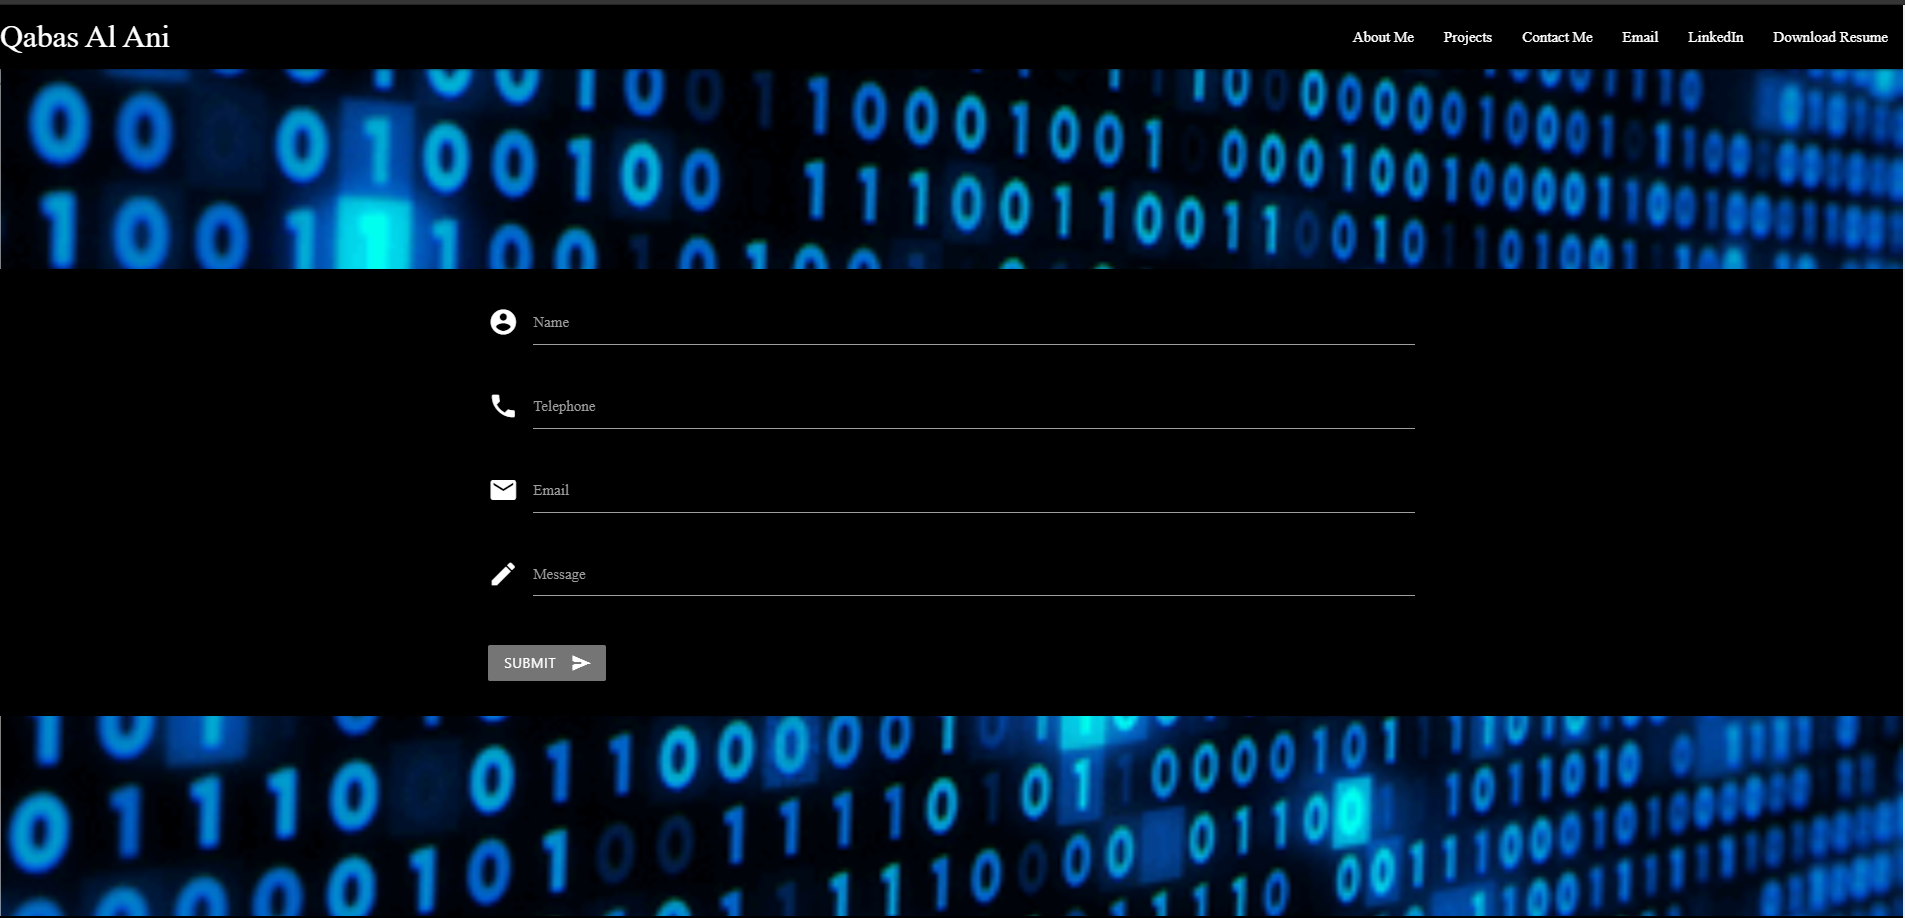
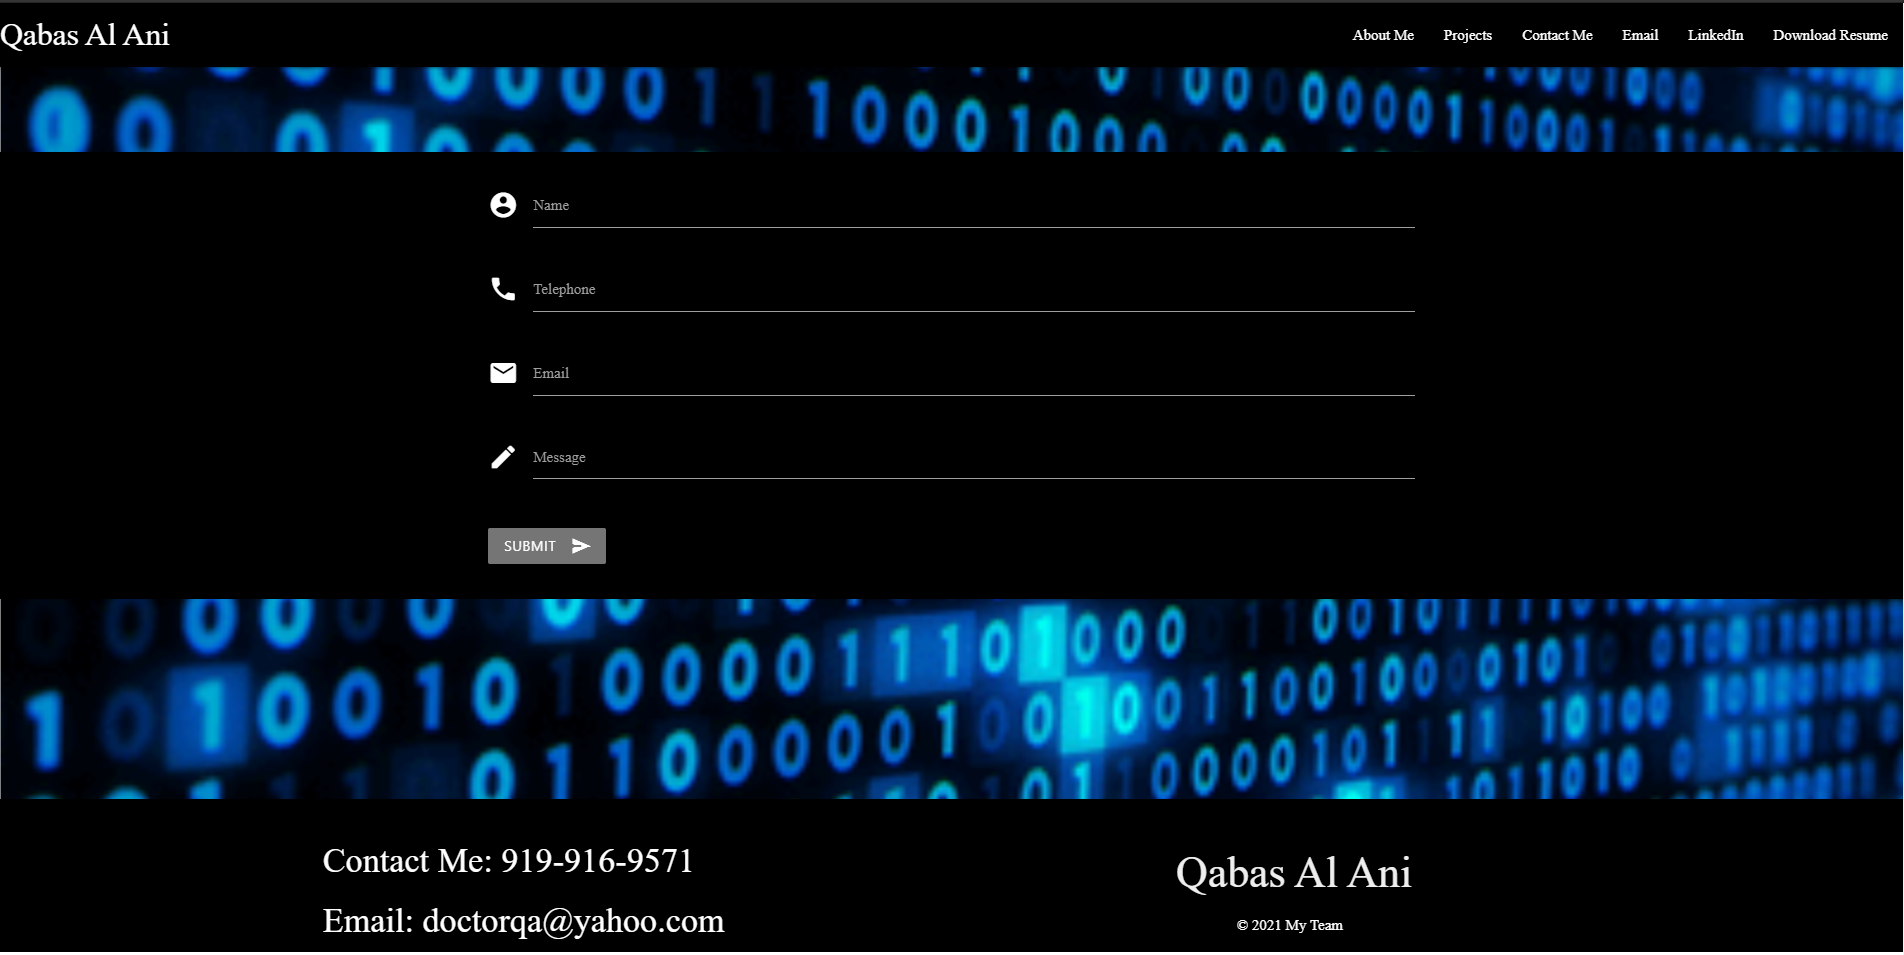
added another screenshot

diff --git a/readme.md b/readme.md
@@ -1,0 +1,48 @@
+# Personal Portfolio
+
+---
+
+[![License](https://img.shields.io/badge/License-MIT-yellow.svg)](https://opensource.org/licenses/MIT)
+
+## Table of Contents
+
+- [Description](#description)
+- [Technologies](#Technologies)
+- [Usage](#usage)
+- [Questions](#questions)
+
+## Description:
+
+I updated my personal portfolio and added second page for contact information and also to be used further on if i want to add and extra page.
+
+```
+## Technologies
+- Html.
+-  Css.
+-  Javascript.
+-  Materialize.
+-  Scroll.js.
+```
+
+### Usage
+
+to have a look for my work and projects that i've created
+
+### A Screenshot of my deployed personal portfolio
+
+![ScreenShots](./Assets/images/screenshots/screenshot1q.png)
+![ScreenShots](./Assets/images/screenshots/screenshot2q.png)
+![ScreenShots](./Assets/images/screenshots/screenshot3q.png)
+![ScreenShots](./Assets/images/screenshots/screenshot4q.png)
+
+[full demo video](http://127.0.0.1:5500/index.html)
+
+### Questions?
+
+For any questions, please contact me with the information below:
+
+doctorqa@yahoo.com
+
+[LinkedIn Profile](ttps://www.linkedin.com/in/qabas-al-ani-7b858863/)
+
+[Github Profile](https://github.com/https://github.com/Qabas-al-ani)
